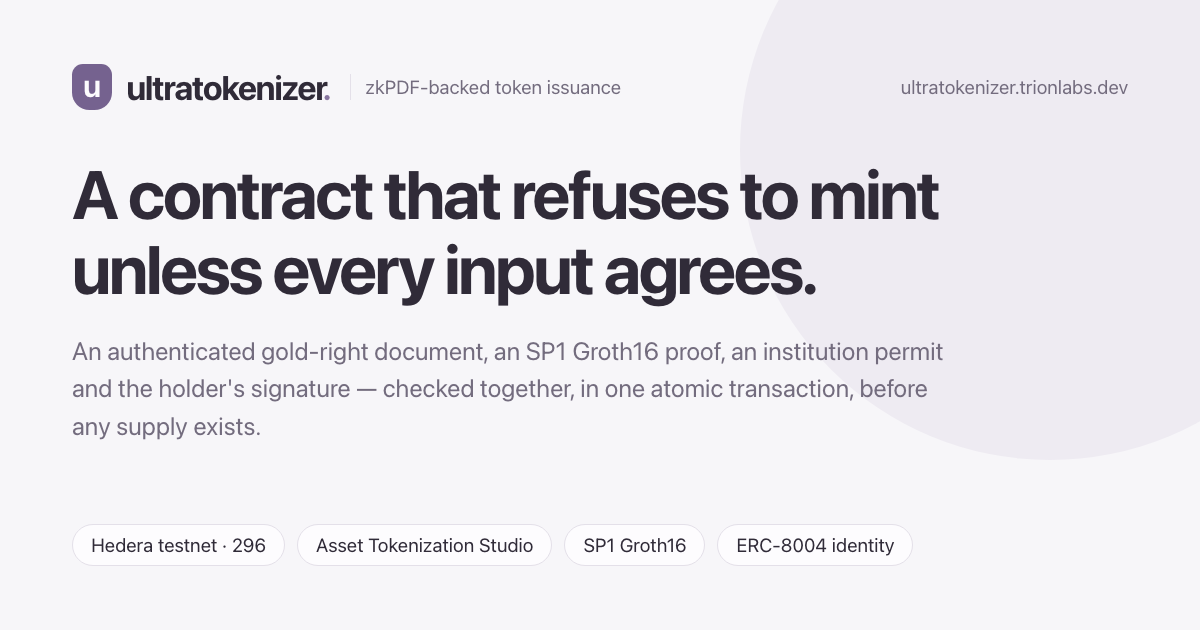
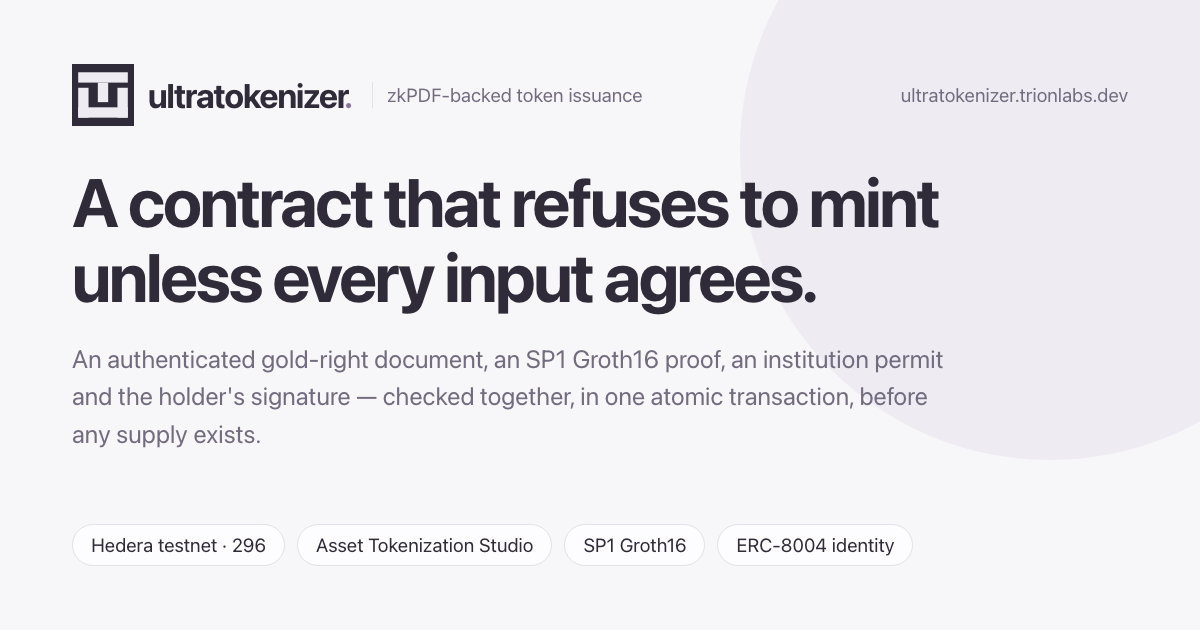
fix(web): unify published brand mark

diff --git a/apps/web/src/lib/components/BrandMark.svelte b/apps/web/src/lib/components/BrandMark.svelte
@@ -1,0 +1,31 @@
+<script lang="ts">
+  // The UT monogram: a T interlocked with a U on one square field. The same
+  // geometry is published as static/favicon.svg and rendered into the Open
+  // Graph card and the touch icon by scripts/render-brand-assets.mjs.
+  //
+  // Drawn as rectangles rather than a letterform, so it is identical wherever
+  // it appears and does not depend on a font being available. The size is
+  // fixed in pixels: the mark is artwork, not text, and must not outgrow the
+  // header line when the reader scales text to 200%.
+  //
+  // The palette tokens live on `.live-shell`. The literal fallbacks keep the
+  // mark visible rather than black-on-black if it is ever rendered outside it.
+  let { size = 30 }: { size?: number } = $props();
+</script>
+
+<svg
+  width={size}
+  height={size}
+  viewBox="0 0 720 720"
+  role="img"
+  aria-label="Ultratokenizer"
+>
+  <rect width="720" height="720" fill="var(--p-ink, #302b38)" />
+  <g fill="var(--p-accent-soft, #eeebf2)">
+    <rect x="72" y="96" width="576" height="120" />
+    <rect x="300" y="216" width="120" height="227" />
+    <rect x="72" y="276" width="120" height="347" />
+    <rect x="528" y="276" width="120" height="347" />
+    <rect x="72" y="503" width="576" height="120" />
+  </g>
+</svg>

diff --git a/apps/web/src/lib/components/AppHeader.svelte b/apps/web/src/lib/components/AppHeader.svelte
@@ -1,5 +1,6 @@
 <script lang="ts">
   import type { Snippet } from 'svelte';
+  import BrandMark from './BrandMark.svelte';
   let {
     current,
     actions,
@@ -33,7 +34,7 @@
 <header class="app-header">
   <div class="brand-block">
     <a class="live-brand" href="/" aria-label="Ultratokenizer home"
-      ><span>u</span>ultratokenizer<i>.</i></a
+      ><BrandMark />ultratokenizer<i>.</i></a
     >
     <span class="engine-label">zkPDF-backed token issuance</span>
   </div>
@@ -90,20 +91,8 @@
     letter-spacing: -0.04em;
     text-decoration: none;
   }
-  .live-brand > span {
-    width: 30px;
-    height: 34px;
-    display: grid;
-    place-items: center;
-    padding-bottom: 3px;
-    color: var(--p-paper);
-    background: var(--p-accent);
-    border-radius: 8px 8px 13px 13px;
-    /* The tile is a fixed-size brand mark, so its letterform is fixed with it.
-       A rem here let the glyph grow past the tile at 200% text while the tile
-       stayed put. The wordmark beside it is real text and still scales. */
-    font-size: 23px;
-    font-weight: 650;
+  .live-brand :global(svg) {
+    display: block;
     flex-shrink: 0;
   }
   .live-brand i {
